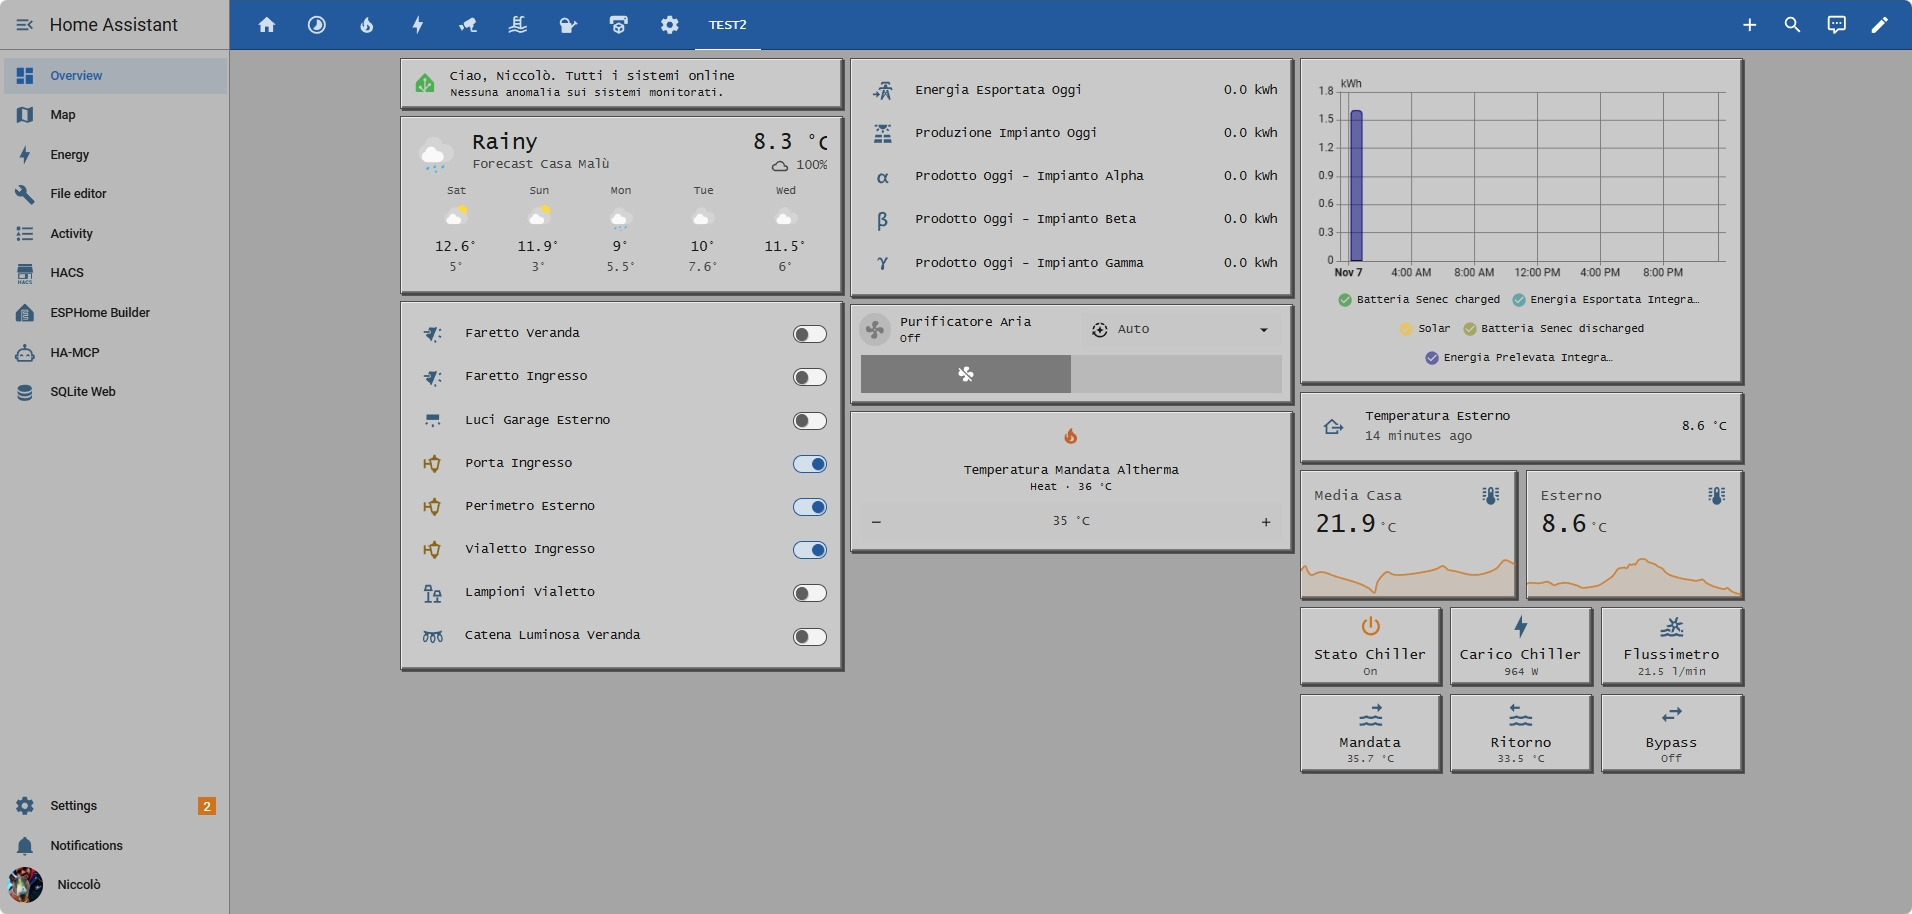
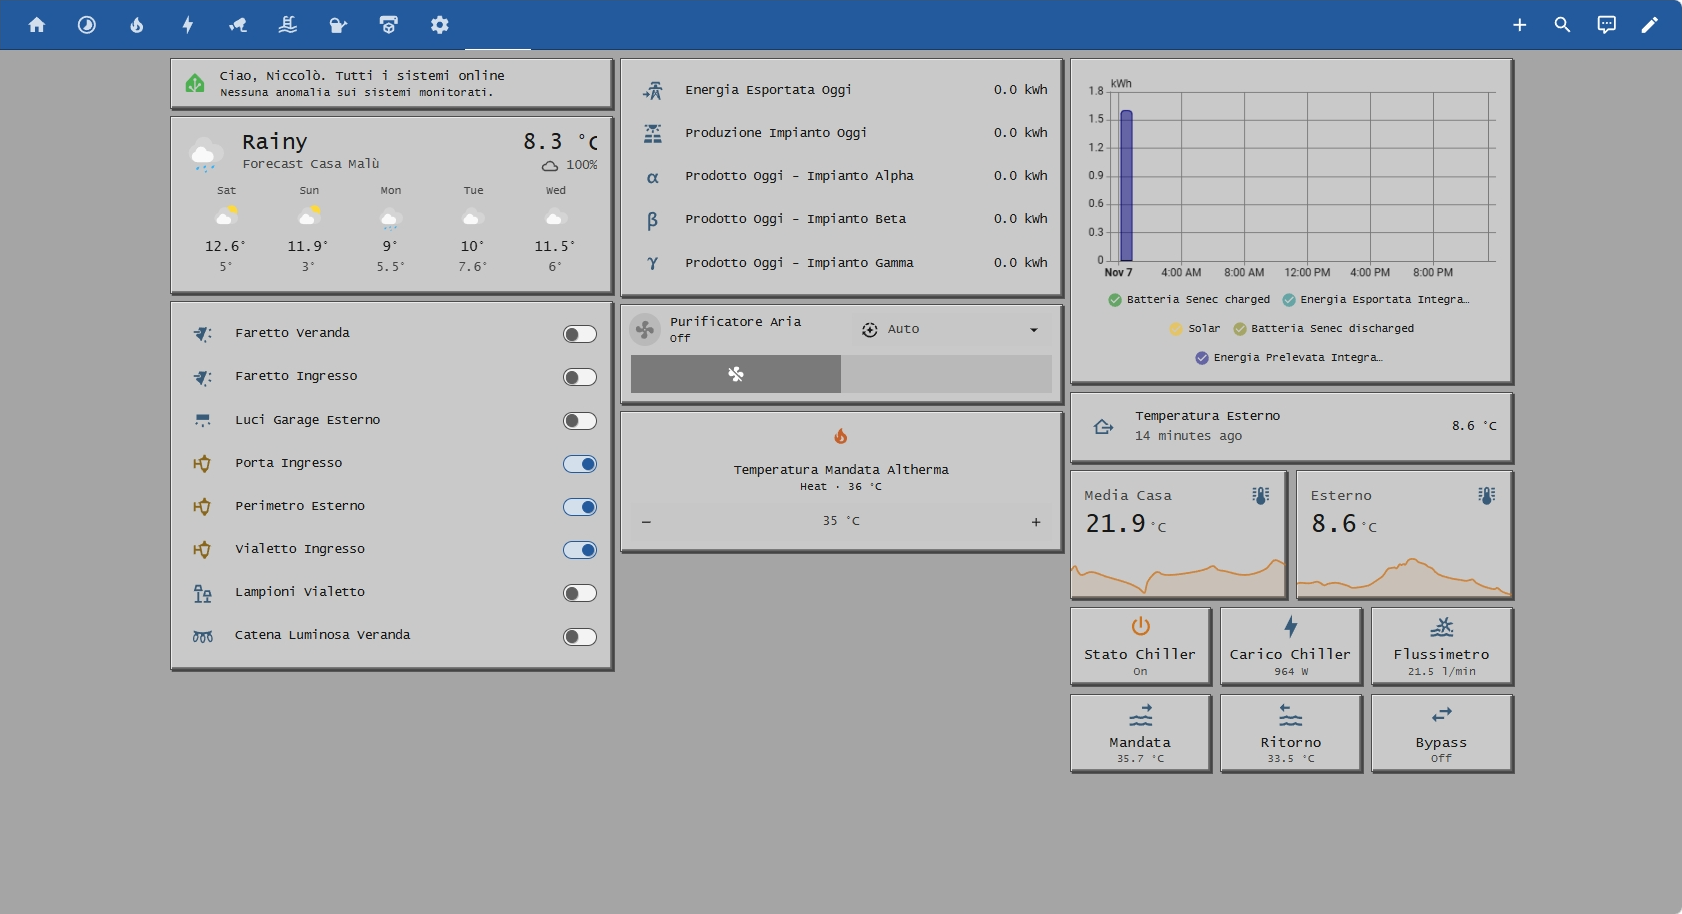
Clean dashboard screenshots: remove sidebar and TEST2 label

diff --git a/README.md b/README.md
@@ -8,7 +8,7 @@ The themes use native Home Assistant YAML: **no custom cards or frontend depende
 
 ## Real Home Assistant screenshots
 
-Screenshots supplied by the maintainer from the same running dashboard. Cards, entities and dashboard layout are examples and are not included with the themes.
+Screenshots supplied by the maintainer from the same running dashboard, cropped to remove the sidebar with the test navigation label removed. Cards, entities and dashboard layout are examples and are not included with the themes.
 
 ### Mac OS 8 Platinum
 
